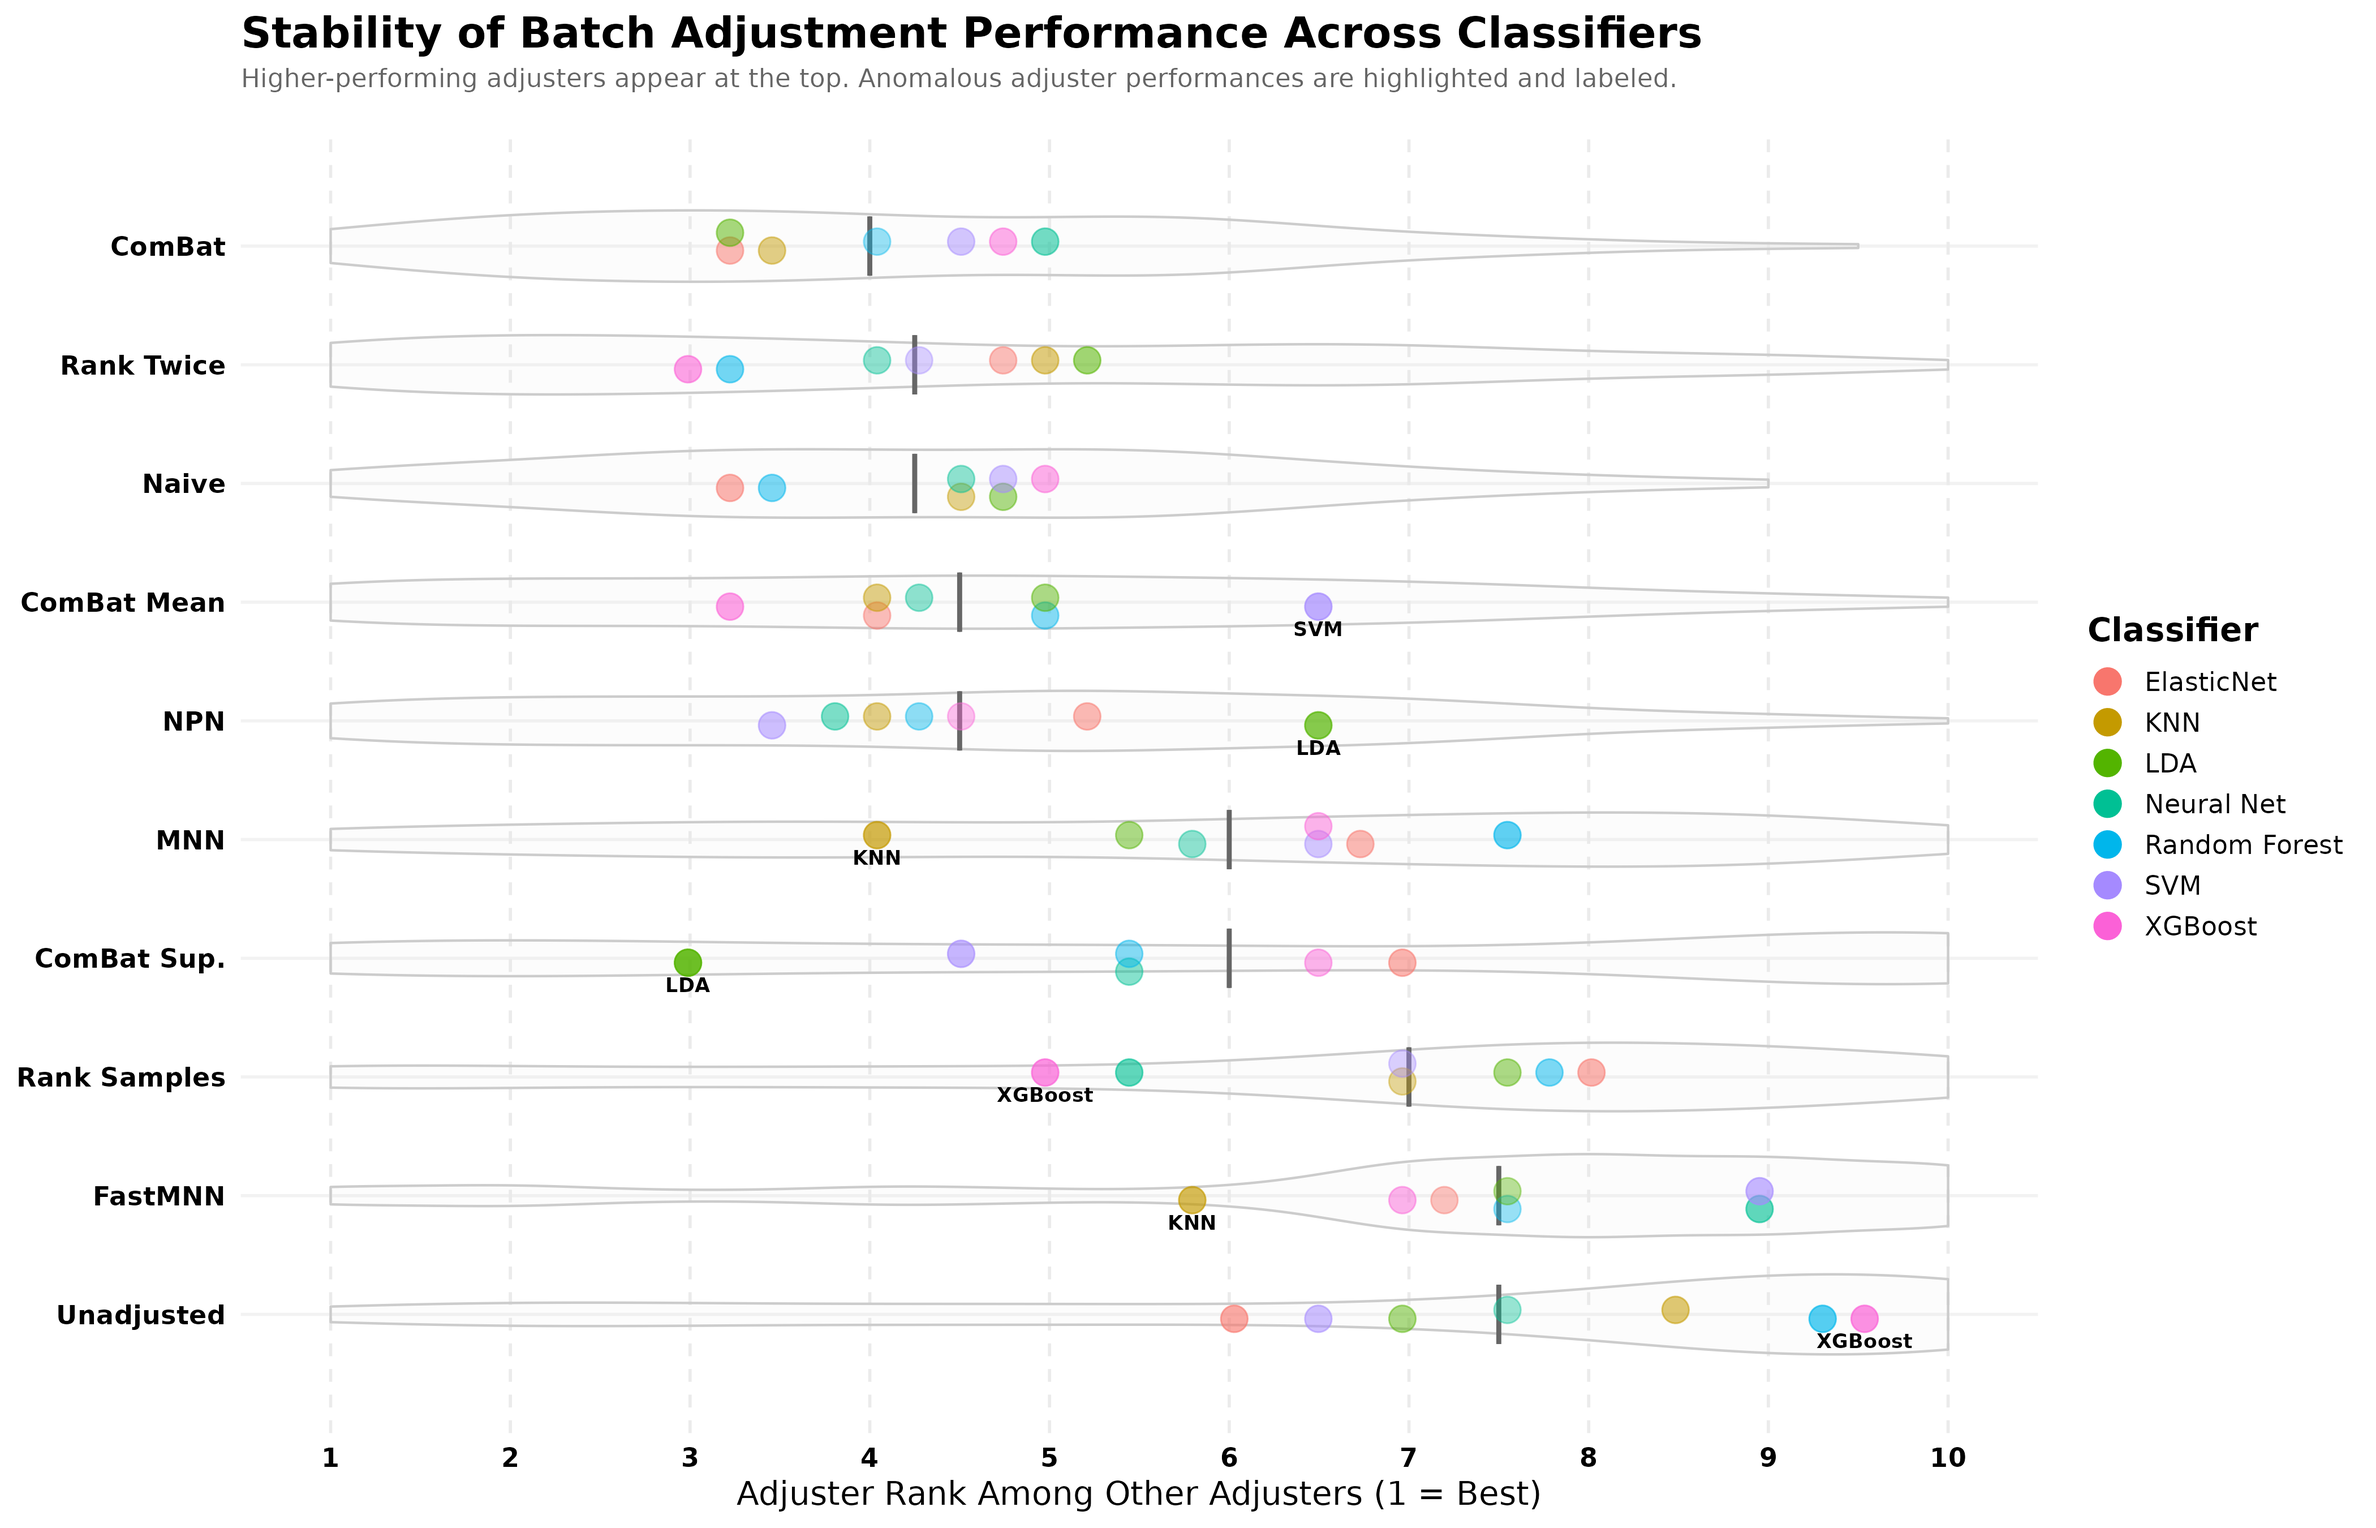
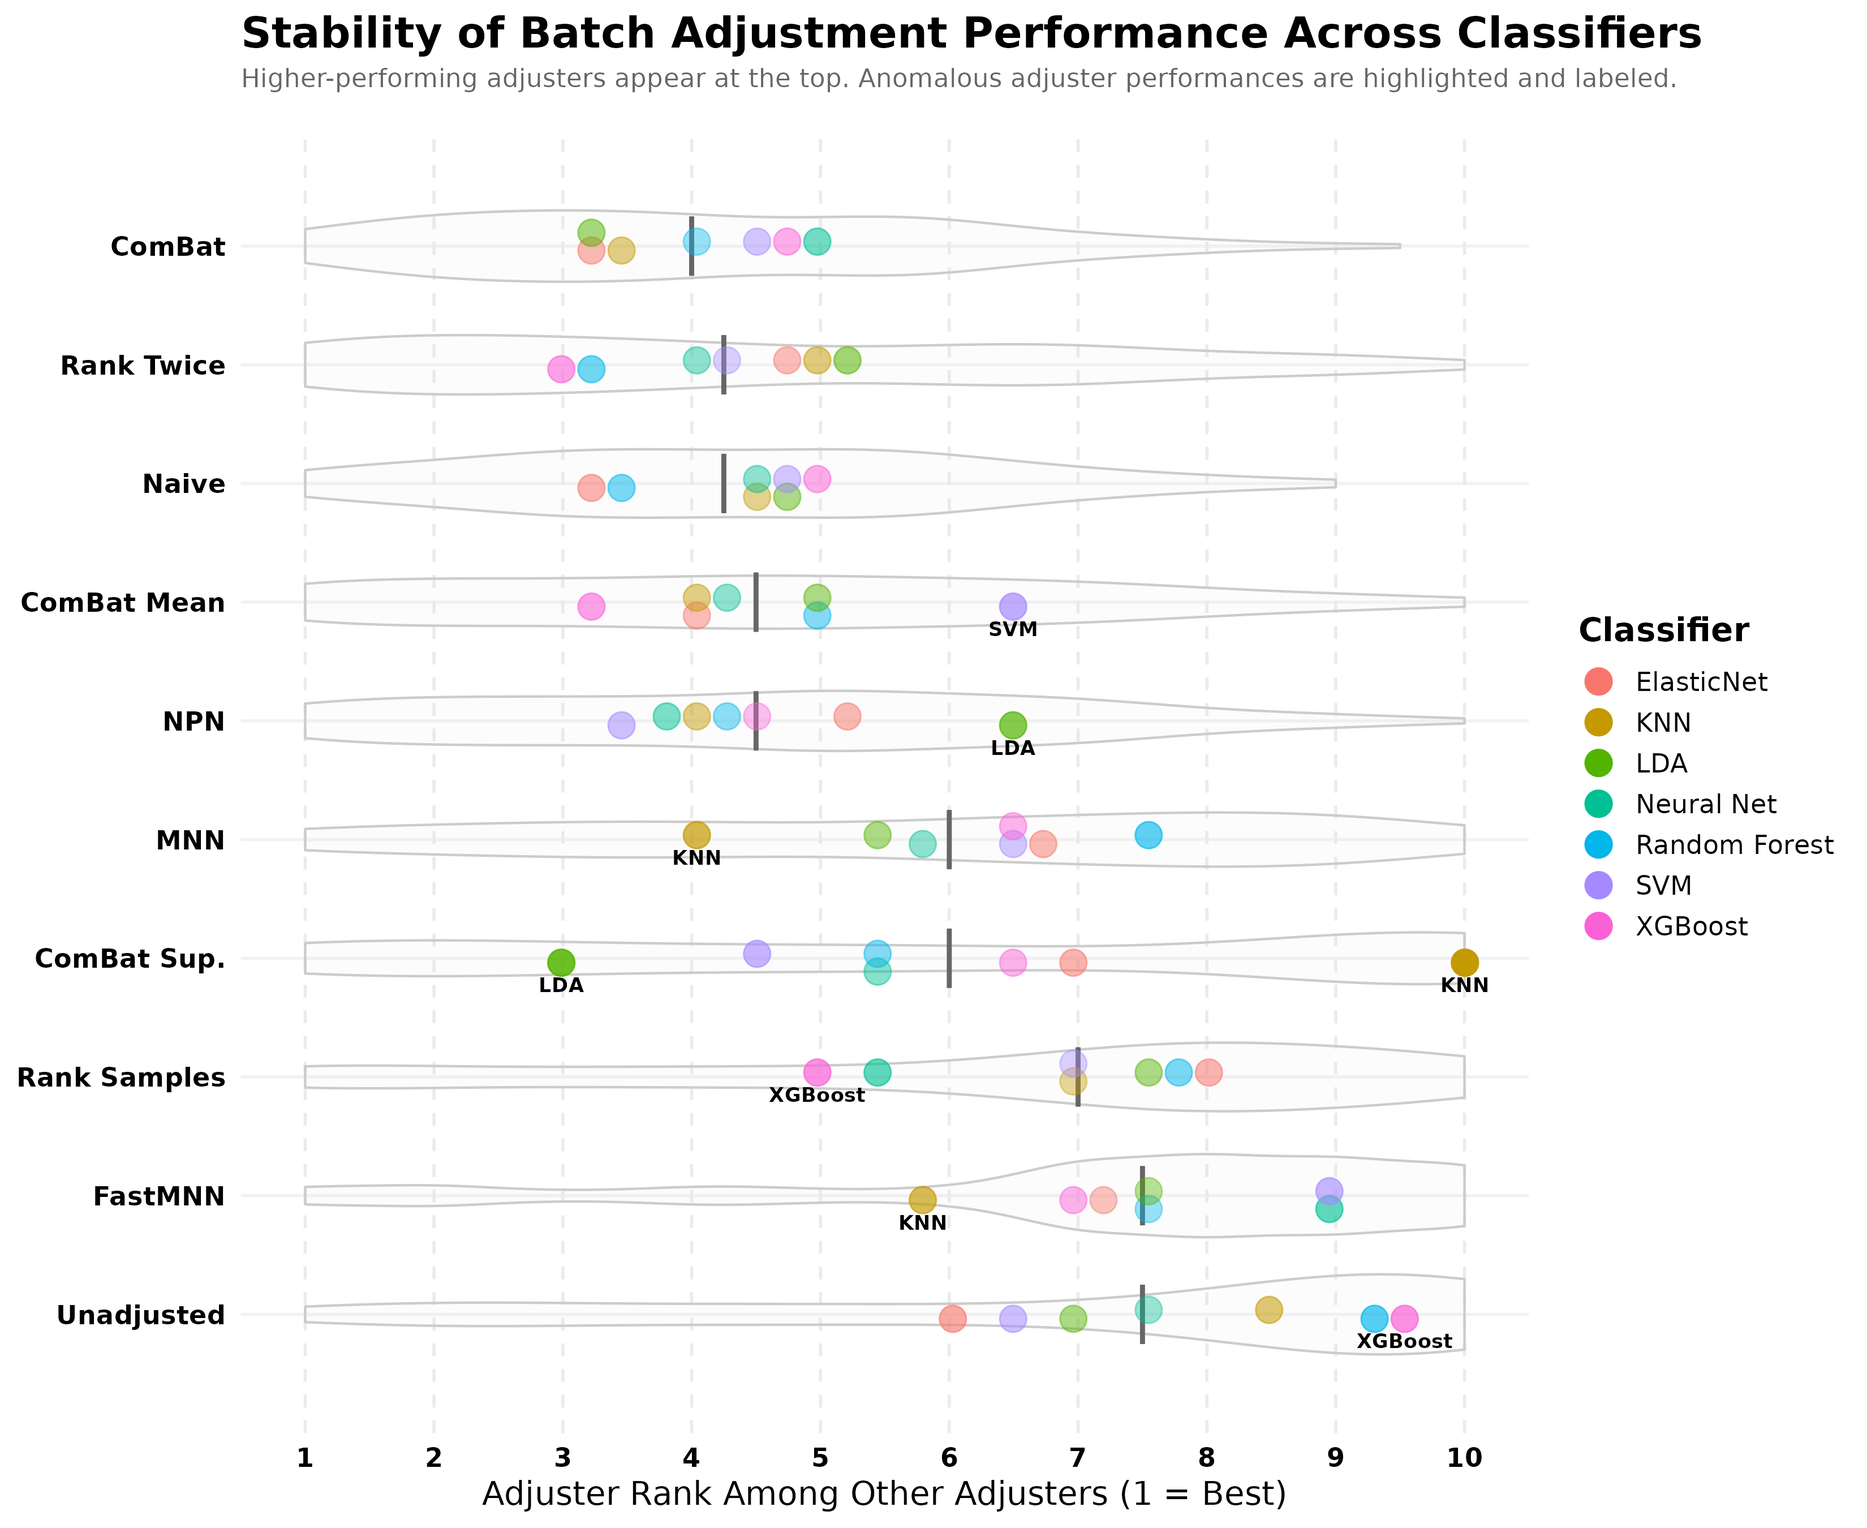
Writing

diff --git a/03_Drafting/manuscript.md b/03_Drafting/manuscript.md
@@ -227,7 +227,7 @@
 > The results show that regularization is essential for classifying high-dimensional gene expression data.
 
 > [!question]- Methods (status:: undefined)
-> The analysis evaluated classifier performance across multiple tuberculosis gene expression datasets using leave-one-study-out cross-validation. Nine machine learning classifiers were tested: logistic regression, elastic net (regularized logistic regression), k-nearest neighbors (KNN), a three layer neural network, random forests, shrinkage linear discriminant analysis (LDA), support vector machines (SVM), and XGBoost. Ten batch adjustment methods were compared: ComBat, ComBat with mean-only adjustment, ComBat with supervised adjustment, naive mean and variance matching, mutual nearest neighbors (MNN), FastMNN, nonparanormal transformation (NPN), rank-based normalization over genes within samples, the same but additionally ranked over samples, and unadjusted merged and within-study cross-validation as baselines. Performance was assessed using Matthews correlation coefficient (MCC). MCC performance is decreased if a classifier has poor sensitivity, specificity, positive predictive value, or negative predictive value, and provides a good lower bound on performance. MCC ranges from 1, perfect, to 0, random, to -1, perfectly inverted. The test study labels and descriptions are found in Table 1.
+> The analysis evaluated classifier performance across multiple tuberculosis gene expression datasets using leave-one-study-out cross-validation. Nine machine learning classifiers were tested: logistic regression, elastic net (regularized logistic regression), k-nearest neighbors (KNN), a three layer neural network, random forests, shrinkage linear discriminant analysis (LDA), support vector machines (SVM), and XGBoost. Ten batch adjustment methods were compared: ComBat, ComBat with mean-only adjustment, ComBat with supervised adjustment, naive mean and variance matching, mutual nearest neighbors (MNN), FastMNN, nonparanormal transformation (NPN), rank-based normalization over genes within samples, the same but additionally ranked over samples, and unadjusted merged and within-study cross-validation as baselines. Performance was assessed using Matthews correlation coefficient (MCC). MCC performance is decreased if a classifier has poor sensitivity, specificity, positive predictive value, or negative predictive value, and provides a good lower bound on performance. MCC ranges from 1 (perfect) to 0 (random) to -1 (perfectly inverted). The test study labels and descriptions are found in Table 1.
 
 > [!question]- Adjusters (status:: undefined)
 > The adjusters compared are summarized in Table 2. Before each adjuster is applied, the data is transformed using the formula New Data = log(1 + Data - Global Batch Minimum). This transformation acts as a very coarse single-parameter batch adjustment. It is essential to eliminate the right skew defining the RNA-seq data, and is harmless when applied to the microarray data.
@@ -238,7 +238,7 @@
 > [!question]- Discussion on classifier complexity (status:: undefined)
 > Classifier complexity relates to the model's capacity to capture patterns in the data. More complex models (e.g., neural networks) may overfit when sample sizes are small, while simpler models (e.g., logistic regression) may underfit when patterns are non-linear. The results demonstrate that moderately complex classifiers with built-in regularization (elastic net, XGBoost) achieved the best balance between model flexibility and generalization. Simple logistic regression without regularization performed poorly in this high-dimensional setting, while elastic net's L1/L2 regularization enabled effective feature selection and robust performance. The performance of shinkage LDA was highly variable, having individual performances near perfection like XGBoost, but also having a long tail of poor performances, suggesting that additional regularization perhaps could have improved performance. A simple L2-regularized neural network despite its complexity, also performed well.
 
-> [!question]- Table 2, Adjusters (status:: DRAFT)
+> [!question]- Table 2, Adjusters (status:: undefined)
 > | Method                             | Description                                                                                                         | Assumptions                                                                                                            | 1 Sample | 1 Feature |
 > | ---------------------------------- | ------------------------------------------------------------------------------------------------------------------- | ---------------------------------------------------------------------------------------------------------------------- | -------- | --------- |
 > | Unadjusted                         | Log-transform only; expresses gene relative to the batch minimum.                                                   | Batches variation is a simple global shift.                                                                            | **Yes**  | **Yes**   |
@@ -257,16 +257,18 @@
 ## Interaction Effects Between Adjusters and Classifiers
 
 > [!question]- Why might adjusters and classifiers have interaction effects? (status:: undefined)
-> Different batch correction methods may preserve or remove different aspects of the data structure, which could interact with how different classifiers learn decision boundaries. For example, some adjusters may preserve non-linear relationships better than others, potentially favoring classifiers that can exploit such patterns.
+> Different batch correction methods preserve or remove different aspects of the data structure, which can interact with how different classifiers learn decision boundaries. For example, some adjusters preserve non-linear relationships better than others, potentially favoring classifiers that can exploit such patterns.
 
 > [!question]- Do specific classifiers do better with specific adjusters, or is performance independent? (status:: undefined)
 > The analysis reveals that classifier performance is largely independent of the specific batch adjustment method used, with some notable exceptions.
 
 > [!question]- Figure 2 (status:: undefined)
-> ![Figure 2: MCC Rank by Adjuster](../figures/mcc_rank_by_adjuster.png) *Figure 3. Horizontal violin plots illustrate the distribution of performance rankings for various batch adjustment methods across multiple cross-study validation scenarios. Methods are ordered by their pseudomedian performance, shown as grey vertical bars, with higher-performing adjusters positioned at the top. The x-axis represents the relative rank compared to other methods, where a rank of 1 (leftmost) indicates optimal performance. Gray violins represent the density of ranks across all scenarios. Colored points denote the pseudomedian rank achieved on specific classifiers (e.g., Random Forest, XGBoost) when using the corresponding adjustment method.  Outlier classifiers that deviate significantly from the method's central performance are labeled for clarity.*
+> ![Figure 2: MCC Rank by Adjuster](../figures/mcc_rank_by_adjuster.png) *Figure 2. Horizontal violin plots illustrate the distribution of performance rankings for various batch adjustment methods across multiple cross-study validation scenarios. Methods are ordered by their pseudomedian performance, shown as grey vertical bars, with higher-performing adjusters positioned at the top. The x-axis represents the relative rank compared to other methods, where a rank of 1 (leftmost) indicates optimal performance. Gray violins represent the density of ranks across all scenarios. Colored points denote the pseudomedian rank achieved on specific classifiers (e.g., Random Forest, XGBoost) when using the corresponding adjustment method.  Outlier classifiers that deviate significantly from the method's central tendency are labeled for clarity.*
 
 > [!question]- What does Figure 2 reveal about the change in performance? (status:: undefined)
-> Figure 2 displays results for each adjuster and classifier, aggregated over test and training sets. Most adjusters have consistent performance over all classifiers. This includes Naive
+> Figure 2 displays results for each adjuster and classifier, aggregated over test and training sets. Most adjusters have consistent performance. These adjusters include Combat, Naive, and Rank Twice, which performed well for all classifiers. The figure shows that their rank compared to other adjusters was centered on third to fifth for each classifier.
+
+---
 
 > [!question]- Show a few places where interactions occur, but mostly independent performance (status:: undefined)
 > While performance generally decreased consistently across adjusters for most classifiers, ComBat-supervised adjustment showed a particularly severe interaction with KNN far worse than its effect on other classifiers. This suggests that KNN's distance-based learning mechanism is particularly sensitive to the specific transformations introduced by supervised batch correction. In contrast, logistic regression showed relative robustness to most adjustment methods, with only ComBat-supervised causing significant degradation.
